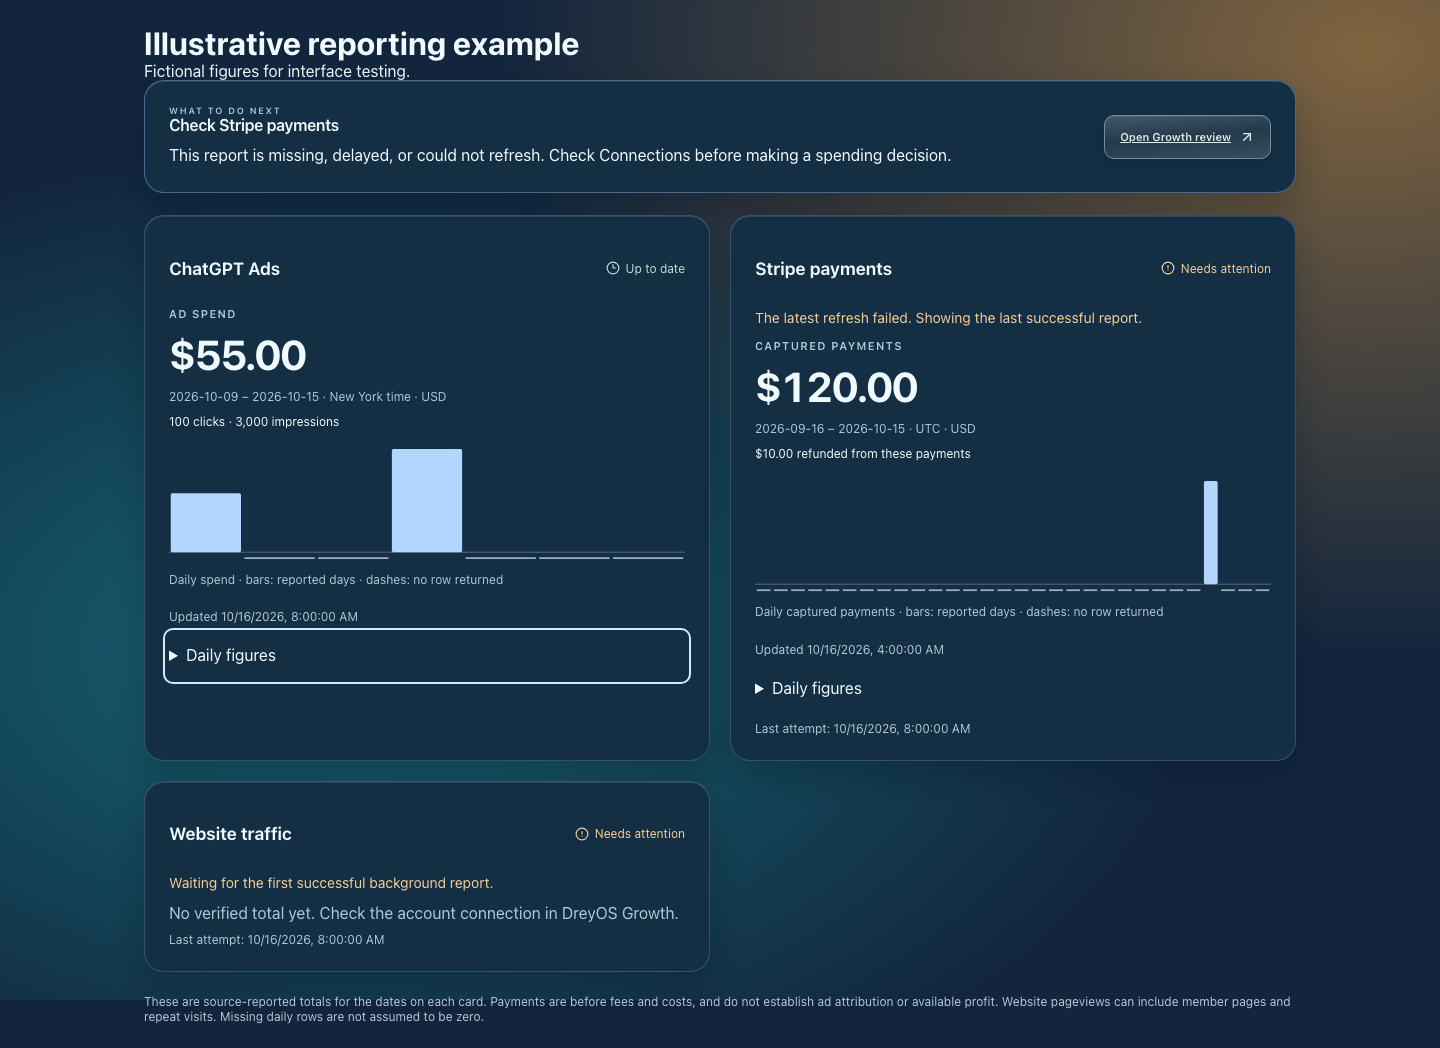
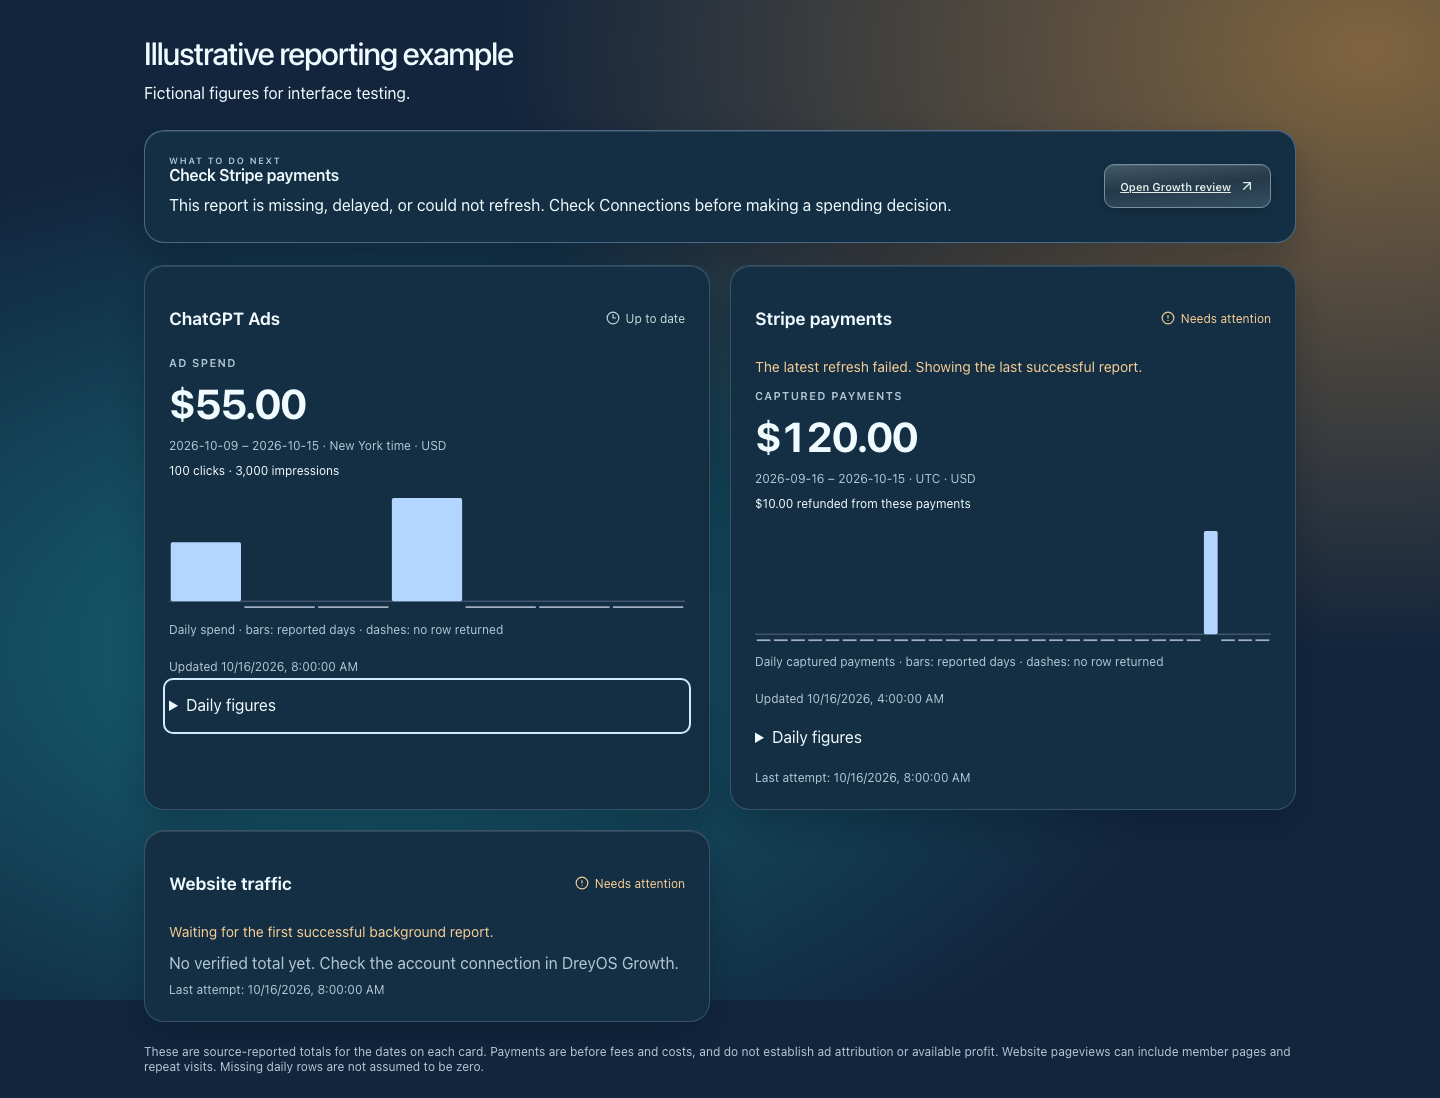
Keep report cards and example headings within enlarged mobile text

diff --git a/tests/overview-graphs.spec.ts b/tests/overview-graphs.spec.ts
@@ -23,7 +23,7 @@ function fixtureMarkup() {
 for(const width of [390,1440]) test(`overview graphs, missing data, delayed results and keyboard access at ${width}px`,async({page})=>{
   await page.setViewportSize({width,height:1000});
   const css=fs.readFileSync('app/globals.css','utf8')+fs.readFileSync('components/live-overview.css','utf8');
-  await page.setContent(`<html lang="en"><head><title>Reporting UI fixture</title><style>${css}</style></head><body><main style="padding:24px;max-width:1200px;margin:auto"><h1>Illustrative reporting example</h1><p>Fictional figures for interface testing.</p><div class="overview-stack">${fixtureMarkup()}</div></main></body></html>`);
+  await page.setContent(`<html lang="en"><head><title>Reporting UI fixture</title><style>${css}</style></head><body><main style="padding:24px;max-width:1200px;margin:auto"><header class="page-heading"><div><h1>Illustrative reporting example</h1><p>Fictional figures for interface testing.</p></div></header><div class="overview-stack">${fixtureMarkup()}</div></main></body></html>`);
   await expect(page.getByRole('heading',{name:'Check Stripe payments'})).toBeVisible();
   await expect(page.getByText('The latest refresh failed. Showing the last successful report.')).toBeVisible();
   await expect(page.getByText('Waiting for the first successful background report.')).toBeVisible();
@@ -38,5 +38,6 @@ for(const width of [390,1440]) test(`overview graphs, missing data, delayed resu
   await page.locator('summary').first().press('Enter');
   if(width===1440) await page.screenshot({path:'public/updates/automatic-overview-example.png',fullPage:true});
   await page.evaluate(()=>{document.documentElement.style.fontSize='200%';});
-  expect(await page.evaluate(()=>document.documentElement.scrollWidth<=innerWidth)).toBe(true);
+  const overflow=await page.evaluate(()=>Array.from(document.querySelectorAll('main *')).filter(el=>el.getBoundingClientRect().right>innerWidth+1).map(el=>({tag:el.tagName,className:el.className,text:el.textContent?.slice(0,70)})));
+  expect(await page.evaluate(()=>document.documentElement.scrollWidth<=innerWidth),JSON.stringify(overflow)).toBe(true);
 });

diff --git a/components/live-overview.css b/components/live-overview.css
@@ -1,12 +1,12 @@
 .report-grid{display:grid;grid-template-columns:repeat(2,minmax(0,1fr));gap:20px}
-.report-source{min-width:0;display:flex;flex-direction:column;gap:10px}
+.report-source{min-width:0;display:flex;flex-direction:column;gap:10px;overflow-wrap:anywhere}
 .report-source-heading{display:flex;align-items:center;justify-content:space-between;gap:12px;flex-wrap:wrap}
 .report-source h3{font-size:1.1rem;font-weight:650}
 .report-health{display:inline-flex;align-items:center;gap:6px;font-size:.75rem;color:#b8dfd7}
 .report-health.attention,.report-warning{color:#f5ce96}
 .report-warning{font-size:.875rem;line-height:1.6}
 .report-total{font-size:clamp(1.8rem,3vw,2.6rem);letter-spacing:-.04em;font-variant-numeric:tabular-nums}
-.next-action{display:flex;align-items:center;justify-content:space-between;gap:24px;border-color:rgba(155,194,242,.4)}
+.next-action{display:flex;align-items:center;justify-content:space-between;gap:24px;border-color:rgba(155,194,242,.4);overflow-wrap:anywhere}
 .next-action p:not(.eyebrow){max-width:78ch;margin-top:8px;line-height:1.65}
 .next-action>a{flex-shrink:0}
 .daily-graph{margin:10px 0;min-width:0}
